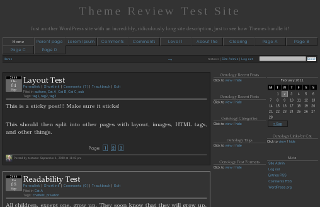
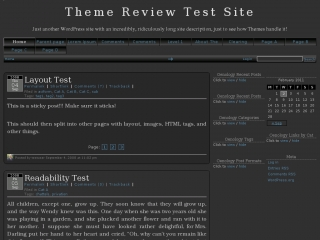
More Syrah style fine-tuning

diff --git a/varietals/syrah.css b/varietals/syrah.css
@@ -46,7 +46,7 @@ dd {
      border-right: 1px solid #000;
      background: #333;
      background: url(menu-syrah.gif) #333 top left repeat-x;
-     background: -webkit-gradient(linear, left bottom, left top, from(#333333), to(#000000), color-stop(0.9, #000000));
+     background: -webkit-gradient(linear, left bottom, left top, from(#555555), to(#000000), color-stop(0.9, #000000));
 }
 .navmenu li a:hover,
 .nav-header li a:hover {
@@ -94,9 +94,25 @@ dd {
 #wp-calendar #today
 {
   background-color:#666; 
-  border: 1px solid silver;
+  border-color: silver;
 }
-div.post { -webkit-border-radius: 9px; -moz-border-radius: 9px; border-radius: 9px; }
+.pagetitle {
+  color:#ccc;
+}
+.cat-description {
+  color:#ddd;
+}
+.cat-description strong {
+  color:#bbb;
+}
+.cat-description em {
+  color:#bbb;
+}
+div.post {
+	border-color:#000;
+	-webkit-border-radius: 9px; 
+	-moz-border-radius: 9px; 
+	border-radius: 9px; }
 body.home .post.sticky {
 	background-color:#282828;
 	border-color: #000;
@@ -128,7 +144,10 @@ body.home .post.sticky {
 .format-gallery .size-thumbnail img,
 .format-image .size-thumbnail img,
 .format-image .gallery-thumb span {
-	border-color: #000;
+	border-color: #181818;
+}
+.post-entry a:hover {
+  background-color:#111;
 }
 .post-entry blockquote {
   border-top:1px solid silver;

diff --git a/style.css b/style.css
@@ -925,6 +925,9 @@ body.single-format-image #content img {
   font-weight:bold;
   text-align:left;
 }
+body.search-results .pagetitle {
+  width:100%;
+}
 .cat-description {
   display:block;
   float:none;

diff --git a/loop-header.php b/loop-header.php
@@ -1,6 +1,6 @@
  <?php if(is_archive()) { 
 	$post = $posts[0]; // Hack. Set $post so that the_date() works.
-	$rssimageurl = get_template_directory_uri() . '/images/subscribewide.jpg';
+	$rssimageurl = get_template_directory_uri() . '/images/subscribewide.png';
 	if (is_category()) { // If this is a category archive  ?>
 		<div class="cat-subscribe-feed">
 			<a href="<?php echo home_url(); ?>/category/<?php $cat = get_the_category(); $cat = $cat[0]; echo $cat->category_nicename;?>/feed/">
